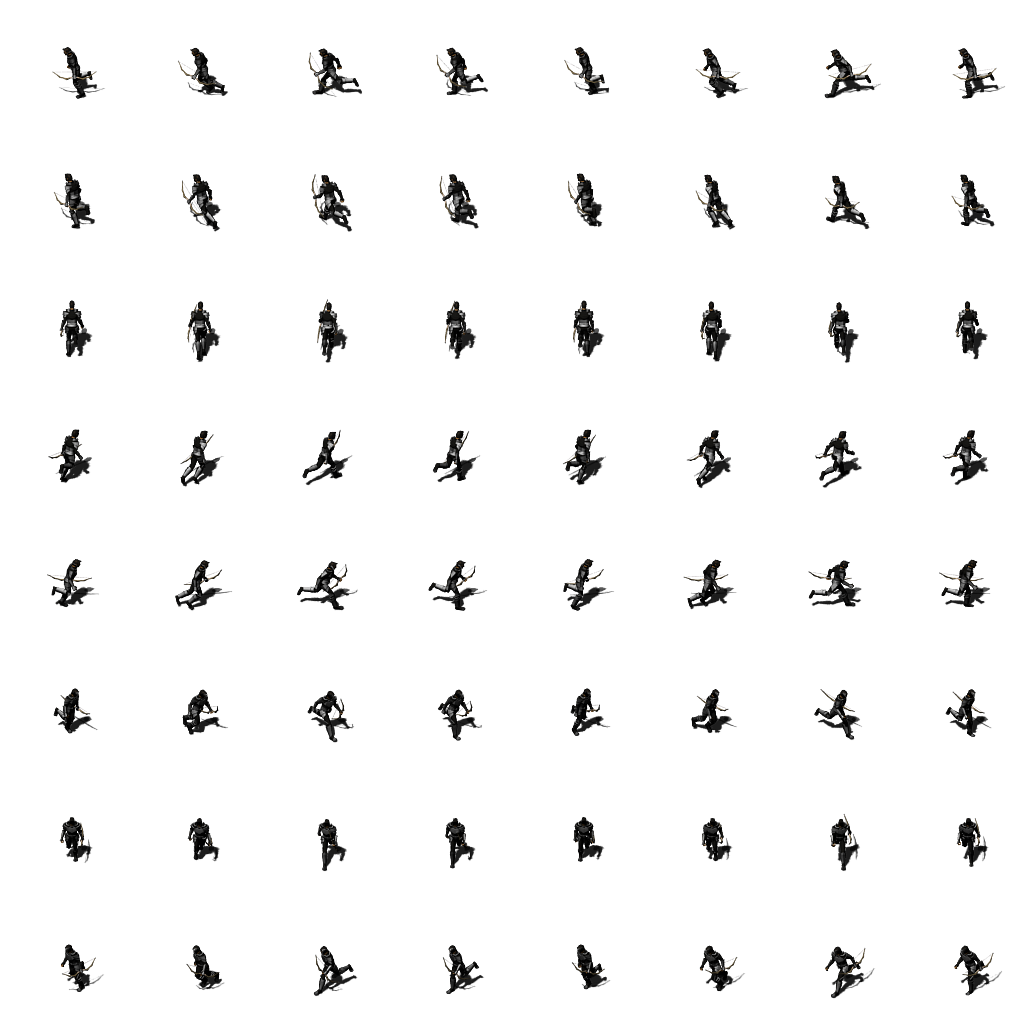
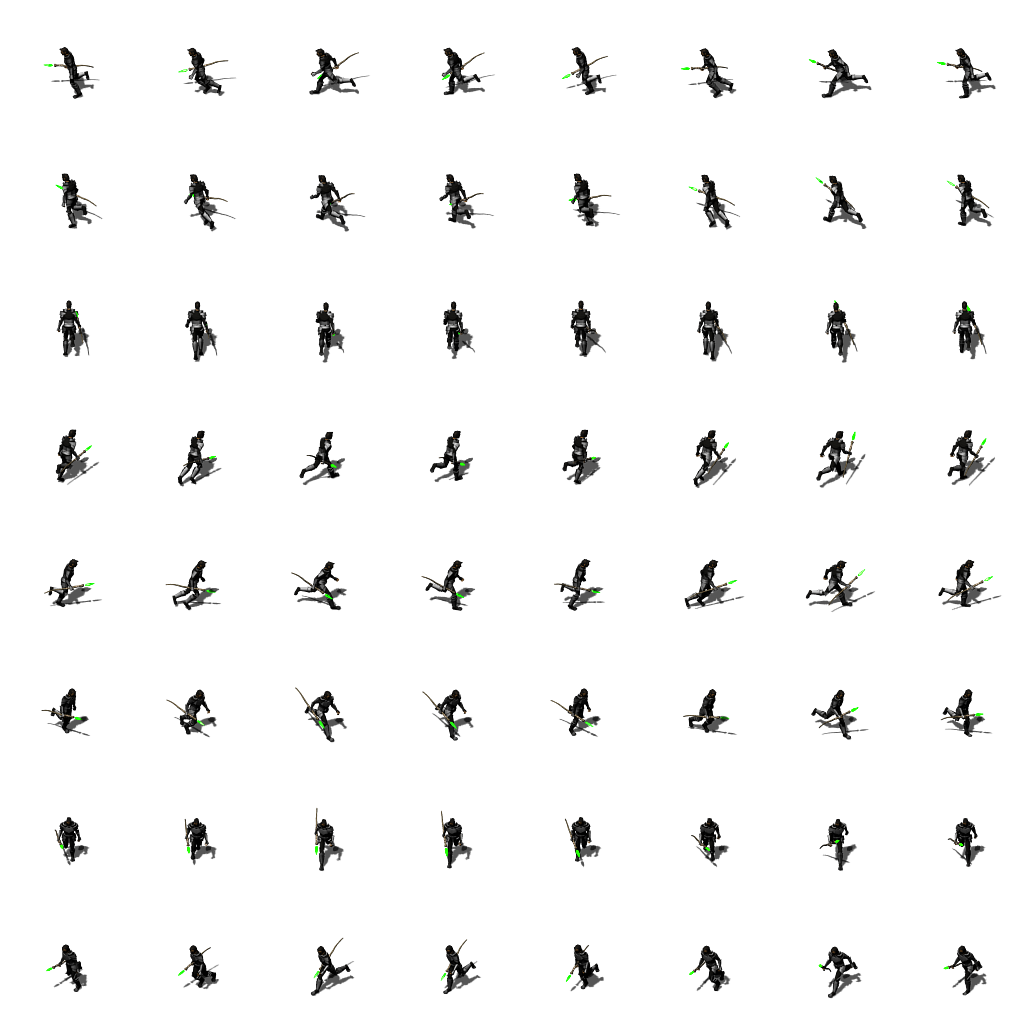
Lucas: agrego wand views

diff --git a/trunk/TpTaller/src/view/entities/PlayerView.cpp b/trunk/TpTaller/src/view/entities/PlayerView.cpp
@@ -513,7 +513,11 @@ void PlayerView::Show(SDL_Surface* fondo, bool drawFog) {
 	 *	spriteMap=selectWeaponView(this->player);
 	 *
 	 */
-	spriteMap = weaponViewMap[string("sword")];
+	if (player->getCurrentWeapon()->getName()=="FrostWand")
+		spriteMap = weaponViewMap[string("bow")];
+	else
+		spriteMap = weaponViewMap[string("sword")];
+
 
 	FoggedSprite spriteToBeShown;
 
